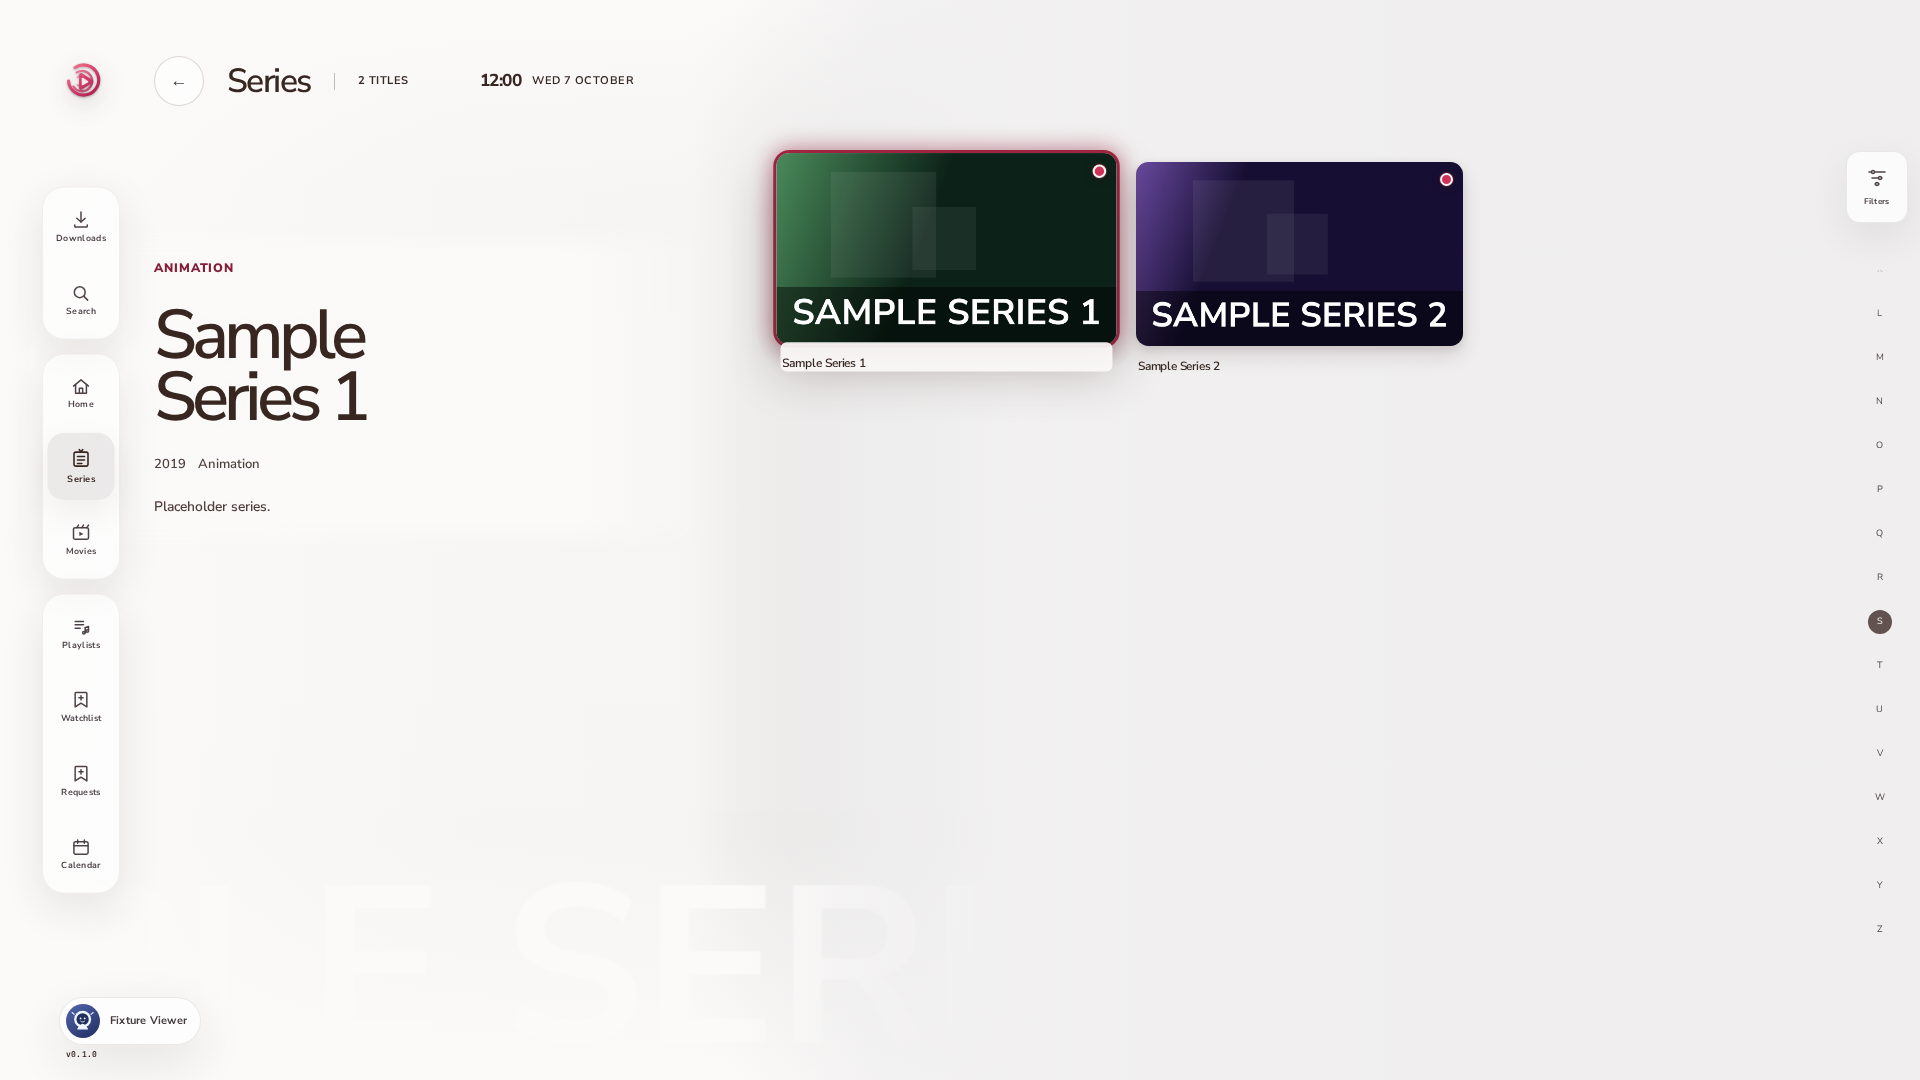
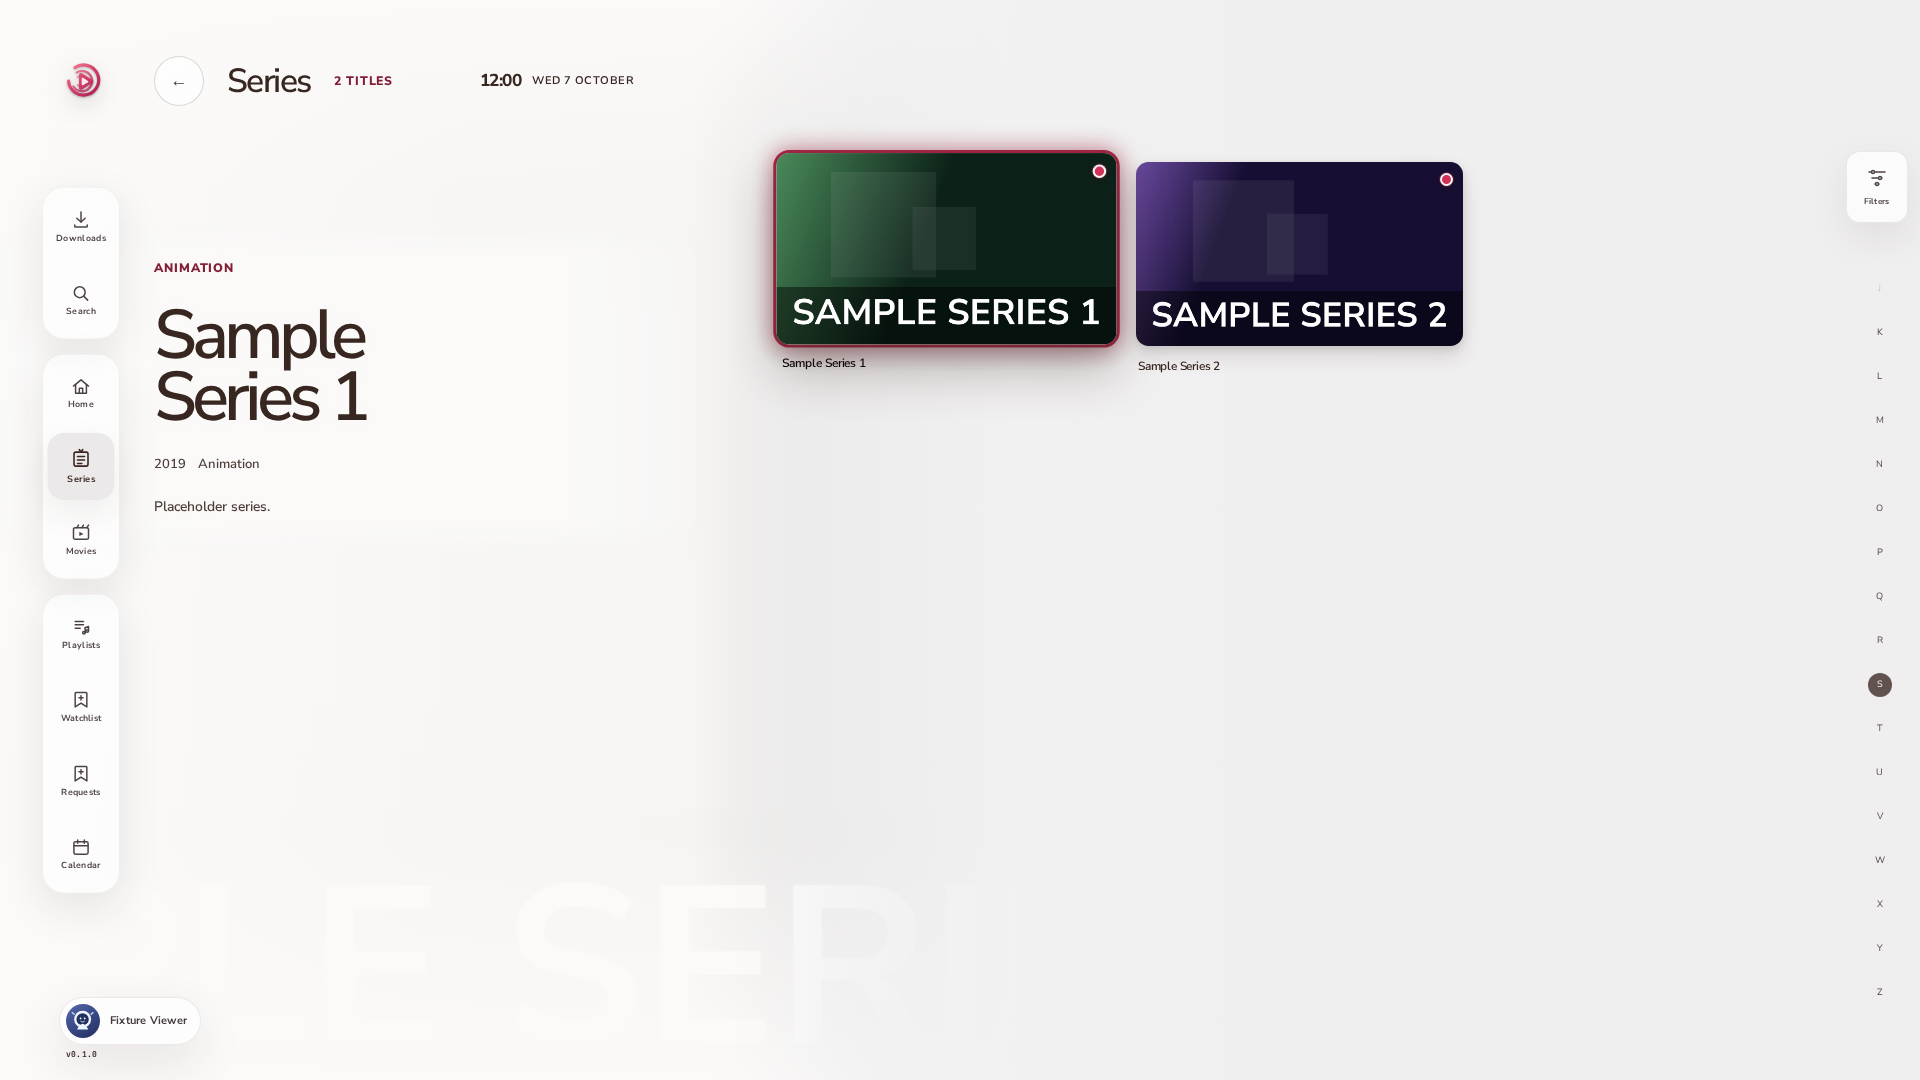
fix(web): library alphabet rail runs to the bottom of the stage with the shared soft fade

diff --git a/clients/tv-web/web/src/styles/global.css b/clients/tv-web/web/src/styles/global.css
@@ -4578,7 +4578,8 @@ body[data-input-mode="remote"] .player-seek-track:focus .player-seek-thumb {
   -webkit-overflow-scrolling: touch;
   scrollbar-width: none;
   padding: 8px 6px;
-  scroll-padding-block: 22px;
+  /* A focused letter settles clear of the edge fade, never inside it. */
+  scroll-padding-block: var(--page-edge-fade-size);
   transform: translateY(-50%);
 }
 
@@ -5747,8 +5748,14 @@ body[data-input-mode="remote"] .tv-search-result[data-remote-active] .tv-search-
 .tv-directory .tv-alphabet {
   right: var(--directory-controls-edge);
   top: clamp(214px, calc(25 * var(--viewport-unit)), 286px);
+  /* Down to the bottom edge of the stage like the library grid, so the fade runs out at the screen edge (a clip edge
+     above it would be a hard line). The bottom padding keeps the last letter clear of the screen edge at the scroll end. */
+  bottom: 0;
   width: auto;
-  height: min(calc(64 * var(--viewport-unit)), 690px);
+  height: auto;
+  padding-bottom: var(--library-rail-bottom, clamp(48px, calc(6 * var(--viewport-unit)), 78px));
+  /* The shared fade; the top fades to nothing so no letter is cut at the rail's top edge (no line). */
+  --edge-fade-start-floor: 0;
   transform: none;
 }
 

diff --git a/changelog.d/alphabet-rail-bottom-fade.fixed.md b/changelog.d/alphabet-rail-bottom-fade.fixed.md
@@ -1,0 +1,1 @@
+- Web: the Library A to Z rail now runs to the bottom of the stage like the grid and fades out with the shared soft edge mask (the top fades to nothing, so no letter is cut by a straight clip edge); a focused letter settles clear of the fade. Owner request 2026-10-10.
